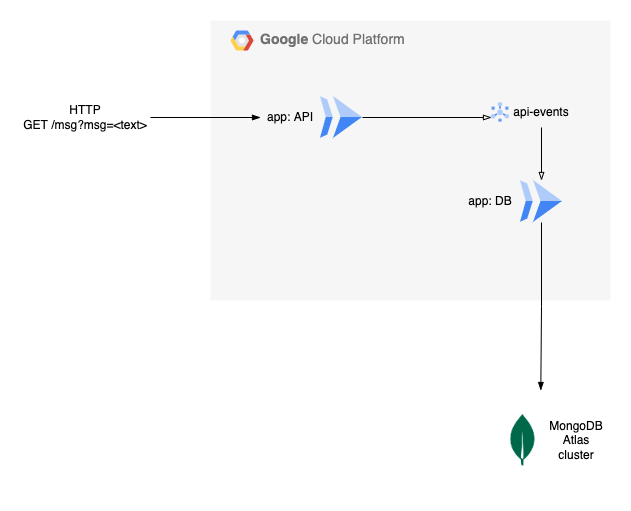
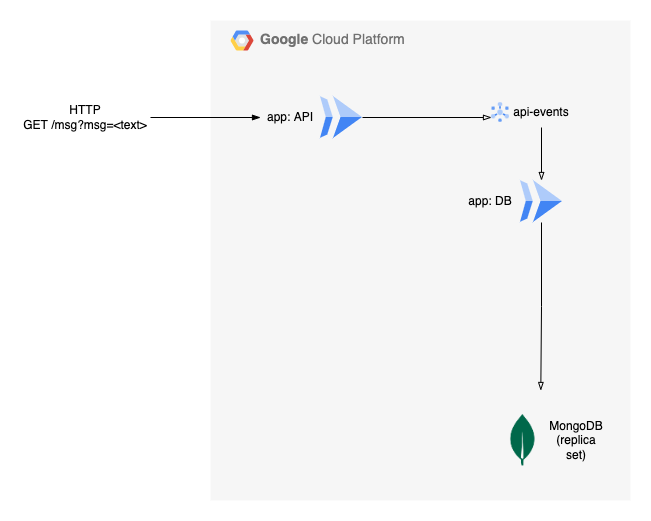
update readme

diff --git a/app/db/src/db.ts b/app/db/src/db.ts
@@ -19,8 +19,8 @@ conn.on('connected', () => {
   console.log('DB connection open');
 });
 
-conn.on('error', (err) => {
-  console.log(`DB connection error: ${err}`);
+conn.on('error', (err: Error) => {
+  console.log(`DB connection error: ${err.message}`);
 });
 
 conn.on('disconnected', () => {

diff --git a/app/db/src/utils.ts b/app/db/src/utils.ts
@@ -17,7 +17,7 @@ async function sleep(waitMilliseconds: number) {
 
 async function createMessage(data: MessageSchema) {
   await db.connection;
-  return db.Message.create(data);
+  db.Message.create(data);
 }
 
 async function listenForMessages() {

diff --git a/README.md b/README.md
@@ -1,9 +1,9 @@
 # Serverless GCP Pub/Sub Example
 
 This is an example serverless application running on GCP Cloud Run and using
-MongoDB Atlas as a database:
+MongoDB as a database:
 
-![GCP Cloud Run PubSub Example](docs/diagrams/gcp-cloud-run-pubsub-example.png "example")
+![GCP Cloud Run PubSub Example](docs/diagrams/gcp-cloud-run-pubsub-push-example.png "example")
 
 The application consists of a publisher (`app: API`) and a subscriber
 (`app: DB`), which publish and read from a GCP Pub/Sub topic (`api-events`). The
@@ -43,7 +43,9 @@ cd apps/db
 Use the built image tags to populate the relevant Terraform variables (see
 below).
 
-## Configuration
+## Infrastructure
+
+Infrastructure is managed with Terraform.
 
 The following TF_VARs are required:
 
@@ -53,11 +55,12 @@ The following TF_VARs are required:
 - `container_image_db`: container image tag for the DB application (in GCP
   Artifact Registry)
 
-## TODO:
+To deploy, run:
 
-- HTTP load balancer
-- Serverless VPC Access connector (for static outbound IP)
-- Cloud Run static outbound IP address whitelist in Atlas
+```sh
+cd terraform
+terraform apply
+```
 
 ## Authors
 
